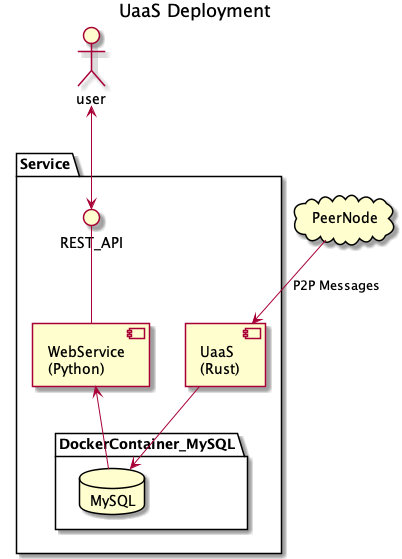
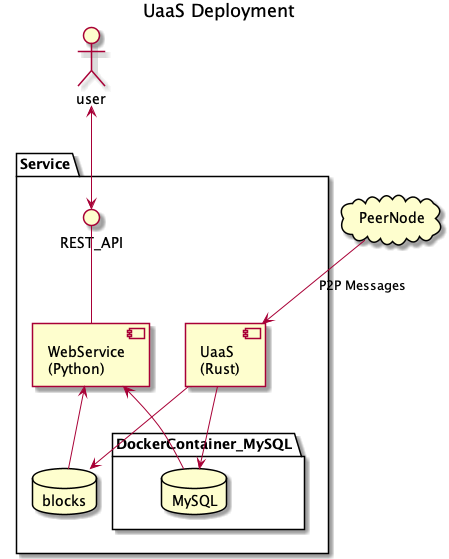
Get block from hash

Changed region(s): [[0.0299, 0.0304, 0.9851, 1.0], [0.2985, 0.0, 0.6866, 0.0304], [0.1791, 0.6995, 0.209, 0.7299]]

diff --git a/python/src/tx_analyser.py b/python/src/tx_analyser.py
@@ -2,6 +2,8 @@ import datetime
 from typing import List, Dict, Any, MutableMapping
 from mysql.connector import connect
 
+from util import load_block_at_offset
+
 
 class TxAnalyser:
     def __init__(self):
@@ -9,12 +11,14 @@ class TxAnalyser:
         self.user: str
         self.password: str
         self.database: str
+        self.block_file: str
 
     def set_config(self, config: MutableMapping[str, Any]):
         self.host = config["python"]["host"]
         self.user = config["python"]["user"]
         self.password = config["python"]["password"]
         self.database = config["python"]["database"]
+        self.block_file = config["shared"]["block_file"]
 
     def _read_mempool(self) -> List[Dict[str, Any]]:
         # Read mempool from database
@@ -85,10 +89,33 @@ class TxAnalyser:
                 })
             return retval
 
-    def get_tx_entry(self, hash: str) -> Dict[str, List[Dict[str, Any]]]:
-        """ Return the utxo entry identified by heash"""
+    def _read_block_offset(self, hash: str) -> int:
+        # Read block offset based on tx hash from database
+        with connect(
+            host=self.host,
+            user=self.user,
+            password=self.password,
+            database=self.database,
+        ) as connection:
+            query = (
+                f"SELECT offset FROM uaas_db.blocks INNER JOIN uaas_db.tx on uaas_db.tx.height = uaas_db.blocks.height where uaas_db.tx.hash='{hash}';")
+            cursor = connection.cursor()
+            cursor.execute(query)
+            retval = []
+            for x in cursor:
+                retval.append(x)
+                print(f"x = {x}")
+
+            return retval[0][0]
+
+    def get_tx_entry(self, hash: str) -> Dict[str, Dict[str, Any]]:
+        """ Return the utxo entry identified by hash"""
+        offset = self._read_block_offset(hash)
+        block = load_block_at_offset(self.block_file, offset)
+        tx = list(filter(lambda x: x.hash == hash, block.vtx))[0]
+
         return {
-            "tx": self._read_tx(hash),
+            "tx": tx.to_dict(),
         }
 
 

diff --git a/python/src/block_manager.py b/python/src/block_manager.py
@@ -87,16 +87,6 @@ class BlockManager:
                 print(f"x = {x}")
 
             return retval[0][0]
-            """
-            for x in cursor:
-                timestamp = datetime.datetime.fromtimestamp(x[5])
-                retval.append({
-                    "height": x[0], "hash": x[1], "version": x[2], "prev_hash": x[3], "merkle_root": x[4],
-                    "timestamp": timestamp.strftime('%Y-%m-%d %H:%M:%S'),
-                    "bits": x[6], "nonce": x[7], "offset": x[8]
-                })
-            return retval
-            """
 
     def get_block(self, height: int) -> Dict[str, Dict[str, Any]]:
         # Return the block at the given height
